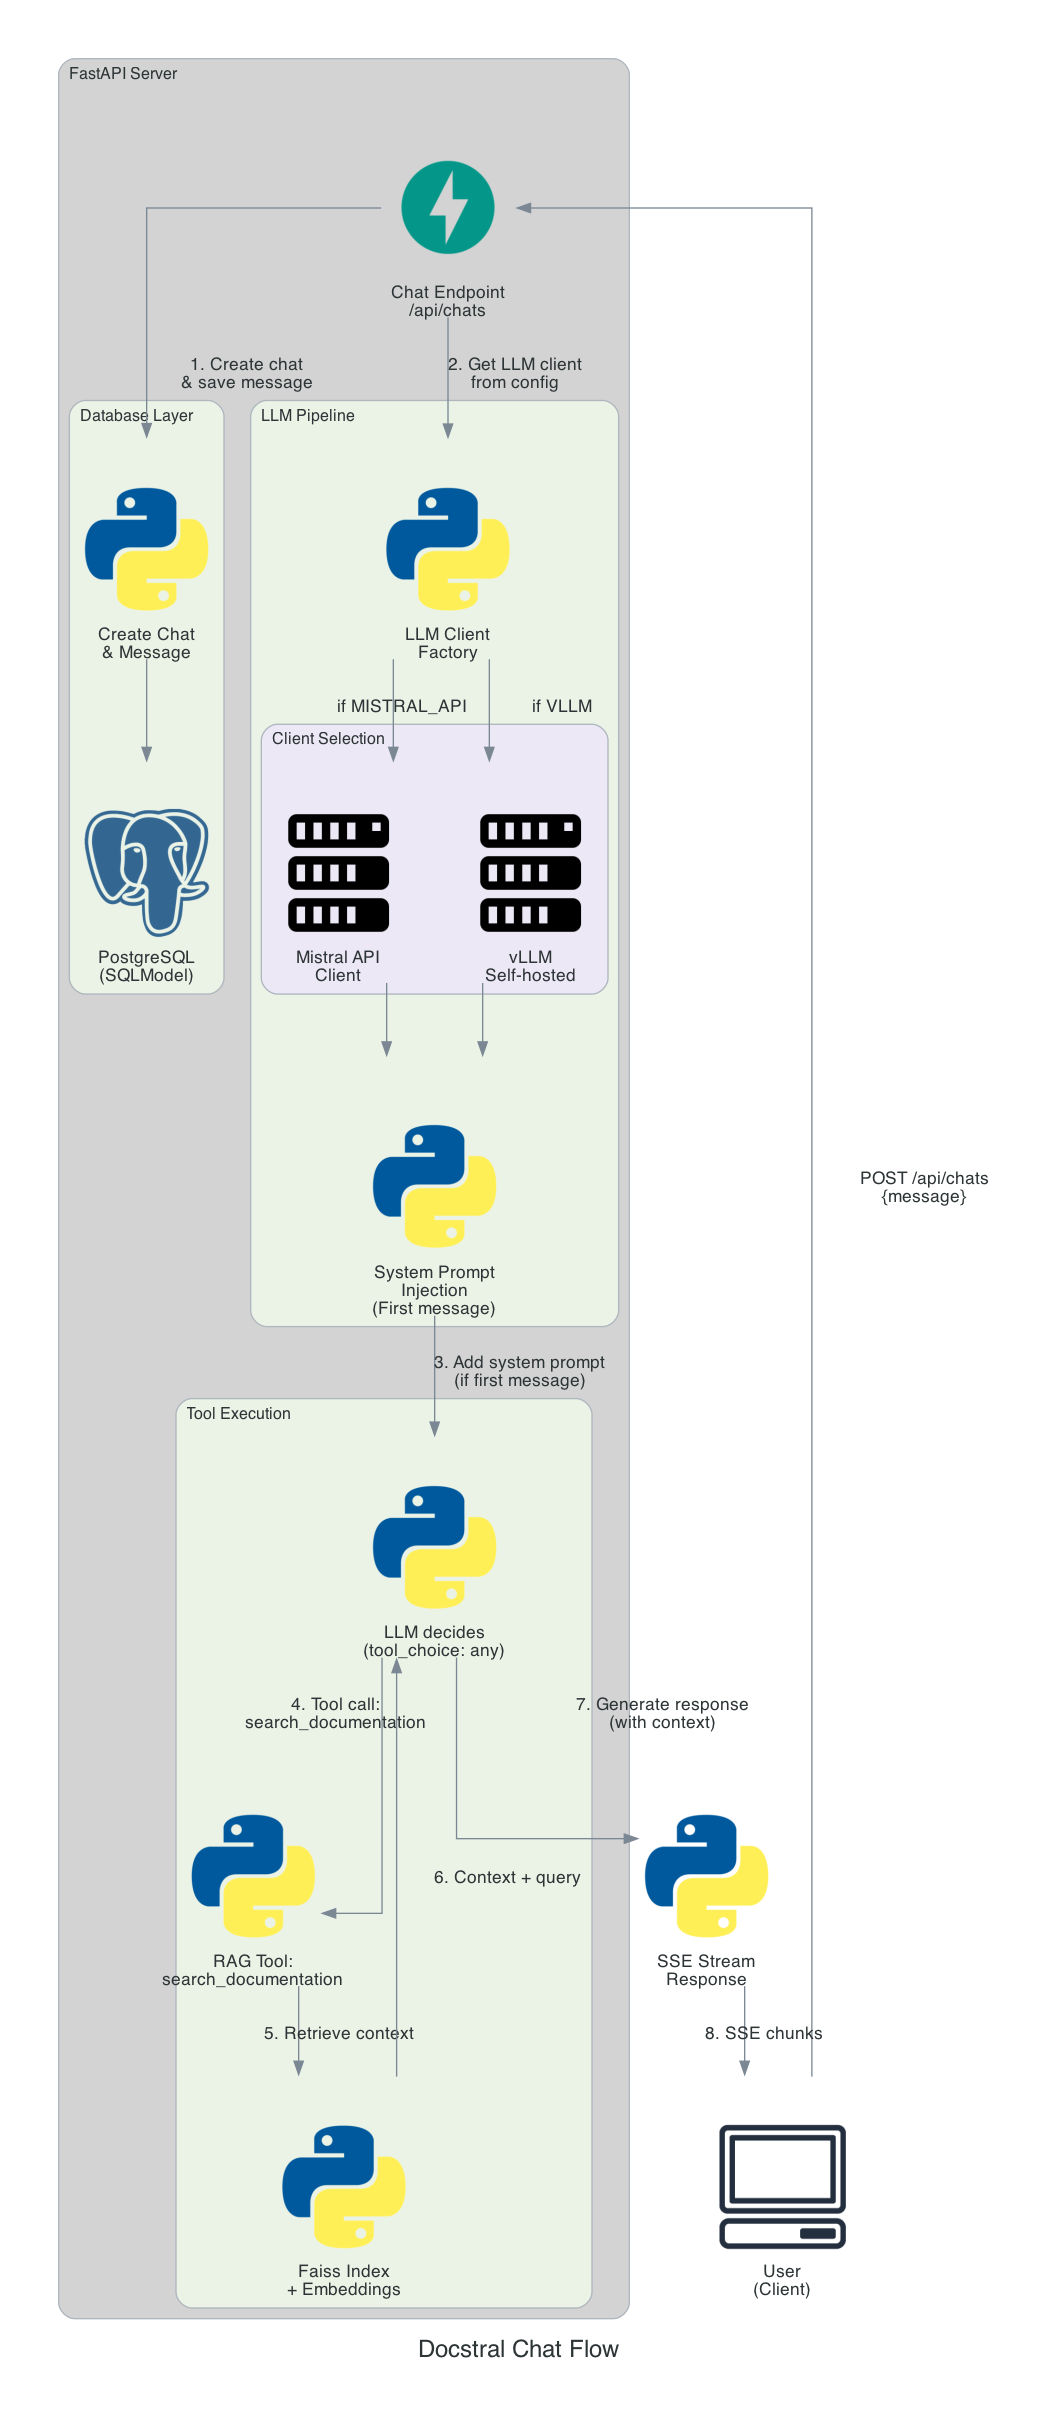
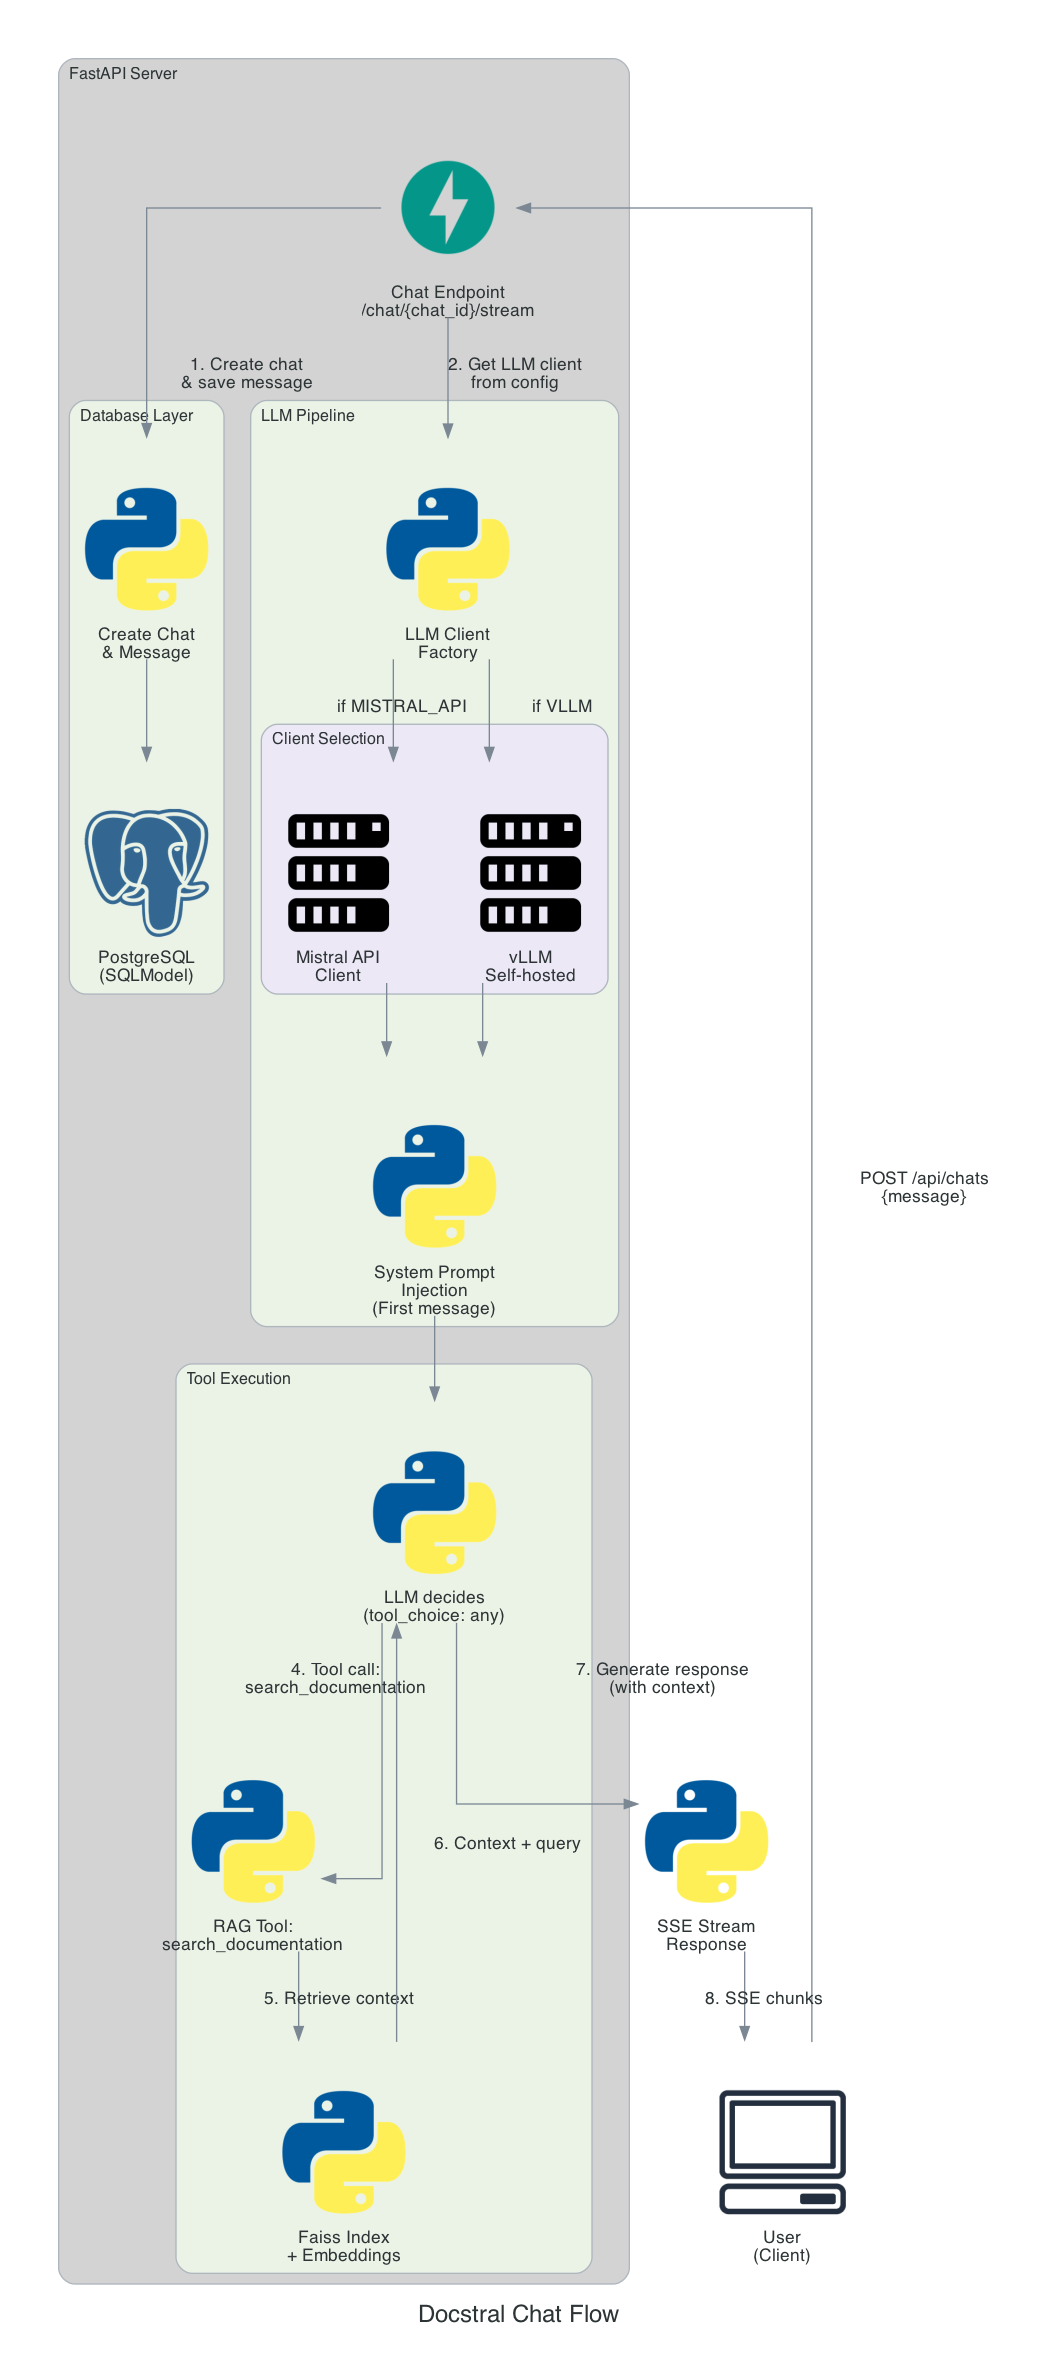
docs: tweak image a bit and server readme as well

diff --git a/server/README.md b/server/README.md
@@ -1,8 +1,8 @@
 # Server
 
-The server is the backbone of this project—a lightweight Python service built to handle conversations with an LLM that actually knows something about Mistral's documentation. The goal wasn't to build production-grade infrastructure with all the bells and whistles, but rather to create something functional, maintainable, and honest about what it is: a sandbox project for exploring RAG-based chat.
+The server is the backbone of this project, a lightweight Python service built to handle conversations with an LLM that actually knows something about Mistral's documentation. The goal wasn't to build production-grade infrastructure with all the bells and whistles, but rather to create something functional, maintainable, and honest about what it is: a sandbox project for exploring RAG-based chat.
 
-The architecture is deliberately simple. We have a FastAPI server handling HTTP requests, SQLModel for persistence, and a small constellation of modules dealing with the LLM interaction, retrieval, and data processing. Everything lives in Python because, frankly, I didn't want to juggle a Node.js proxy just to keep the LLM tooling where it belongs. In my experience, Python is where you want to be when working with language models—the ecosystem is richer, the libraries are more mature, and you're not constantly translating between paradigms.
+The architecture is deliberately simple. We have a FastAPI server handling HTTP requests, SQLModel for persistence, and a small constellation of modules dealing with the LLM interaction, retrieval, and data processing. Everything lives in Python because, frankly, I didn't want to juggle a Node.js proxy just to keep the LLM tooling where it belongs. In my experience, Python is where you want to be when working with language models. The ecosystem is richer, the libraries are more mature, and you're not constantly translating between paradigms.
 
 I've worked with FastAPI enough times to trust it for something like this. It's fast to develop with, the automatic API documentation is genuinely useful, and the async support is first-class. SQLModel felt like a natural companion since it's maintained by the same people and sits cleanly on top of SQLAlchemy. For a project of this scale, it hits the sweet spot between simplicity and capability.
 
@@ -50,13 +50,94 @@ The tricky part was that the raw HTML structure wasn't ideal. I didn't have clea
 
 I did take care to filter out noise—headers, sidebars, navigation elements—anything that would pollute the actual content. The goal was to extract the *documentation*, not the website chrome around it.
 
+You can find the scraper in the `scraper` module. Here is a really simplified version of the core logic:
+
+```python
+class MistralDocsScraper:
+    def __init__(
+            self, base_url: str = "https://docs.mistral.ai", data_dir: Path | None = None
+    ):
+        self.base_url = base_url
+        self.docs_content = []
+        self.data_dir = Path(data_dir or settings.DATA_DIR)
+
+    def scrape_page(self, url: str) -> Dict | None:
+        """Scrape HTML page and convert to structured Markdown."""
+        try:
+            response = requests.get(url, timeout=10)
+            response.raise_for_status()
+            soup = BeautifulSoup(response.content, "html.parser")
+
+            elements_to_remove = [
+                "script",
+                "style",
+                "nav",
+                "footer",
+                "header",
+                ...
+            ]
+
+            for element in soup(elements_to_remove):
+                element.decompose()
+
+            content = (
+                    soup.find("main")
+                    or soup.find("article")
+                    or soup.find("div", class_="content")
+                    or soup.find("div", {"role": "main"})
+                    or soup.find("div", class_="markdown")
+                    or soup.body
+            )
+            section_path = self._extract_section_path(soup)
+
+            markdown_content = md(
+                str(content),
+                heading_style="ATX",
+                bullets="-",
+                code_language="python",
+                strip=["script", "style"],
+            )
+
+            lines = [line.rstrip() for line in markdown_content.split("\n")]
+            markdown_content = "\n".join(lines).strip()
+            ...
+            return {
+                "url": url,
+                "title": title,
+                "content": markdown_content,
+                "metadata": {
+                    "section_path": section_path,
+                    "content_type": content_type,
+                    "has_code": has_code,
+                    "heading_count": heading_count,
+                },
+                "length": len(markdown_content),
+            }
+
+        except Exception as e:
+            logger.error(f"Failed to scrape {url}: {e}")
+            return None
+
+    def scrape_all(self):
+        sitemap_url = f"{self.base_url}/sitemap.xml"
+        urls = self.get_urls_from_sitemap(sitemap_url)
+
+        for i, url in enumerate(urls, 1):
+            page_data = self.scrape_page(url)
+            if page_data and page_data["content"]:
+                self.docs_content.append(page_data)
+            time.sleep(0.2)
+
+        self.save_docs()
+```
+
 ### Embedding and Chunking
 
 Once I had the documentation scraped, I needed to turn it into something a vector database could work with. This meant choosing an embedding model and figuring out how to chunk the content.
 
 For the embedding model, I went to the [MTEB leaderboard](https://huggingface.co/spaces/mteb/leaderboard) on HuggingFace. After some analysis (with a little help from an LLM to parse through the options), I settled on `BAAI/bge-small-en-v1.5`. It's free, reasonably performant for its size (384 dimensions), and it is ranked 87th. I'll let you go and see if you want more details. The top-ranked models are often proprietary and optimized for massive datasets. For a first pass on a relatively small corpus like Mistral's docs, it felt like overkill.
 
-My first attempt at chunking was... not great. I tried to split cleanly on heading boundaries (h1, h2, h3) and group small fragments together. The problem was that Mistral's documentation has a lot of tiny h3 sections, and my logic wasn't sophisticated enough to handle them gracefully. I ended up with too many fragments, some of them split in unfortunate places—mid-code-block, mid-sentence, that sort of thing.
+My first attempt at chunking was... not great. I tried to split cleanly on heading boundaries (h1, h2, h3) and group small fragments together. The problem was that Mistral's documentation has a lot of tiny h3 sections, and my logic wasn't sophisticated enough to handle them gracefully. I ended up with too many fragments, some of them split in unfortunate places.
 
 So I simplified. I switched to `langchain_text_splitters` and split primarily on h1 and h2 boundaries, letting the tool handle the size-based splitting with more intelligence. I also added metadata to each chunk—title, section hierarchy, source URL. And so I could cite sources properly and give the LLM better context about where information came from.
 
